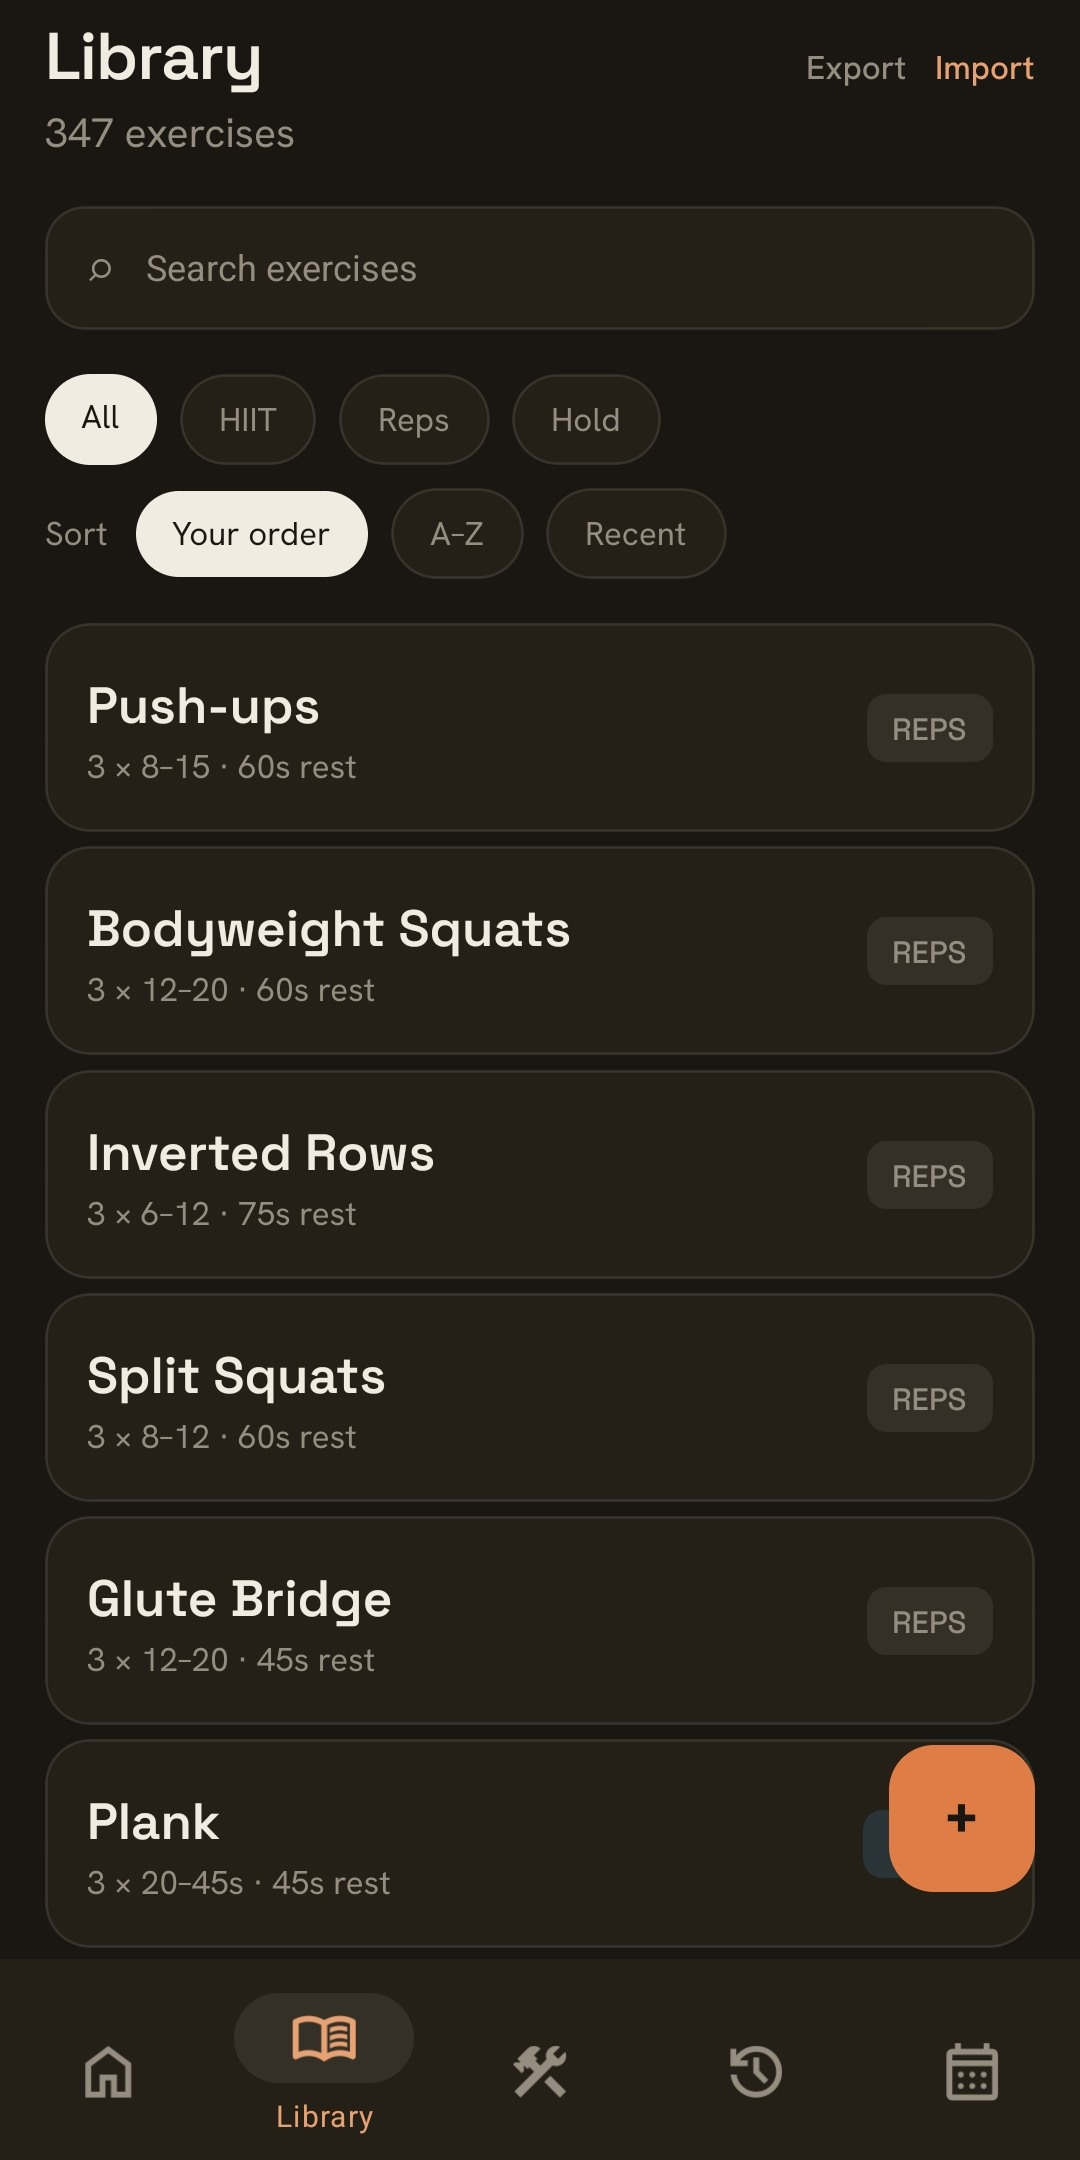
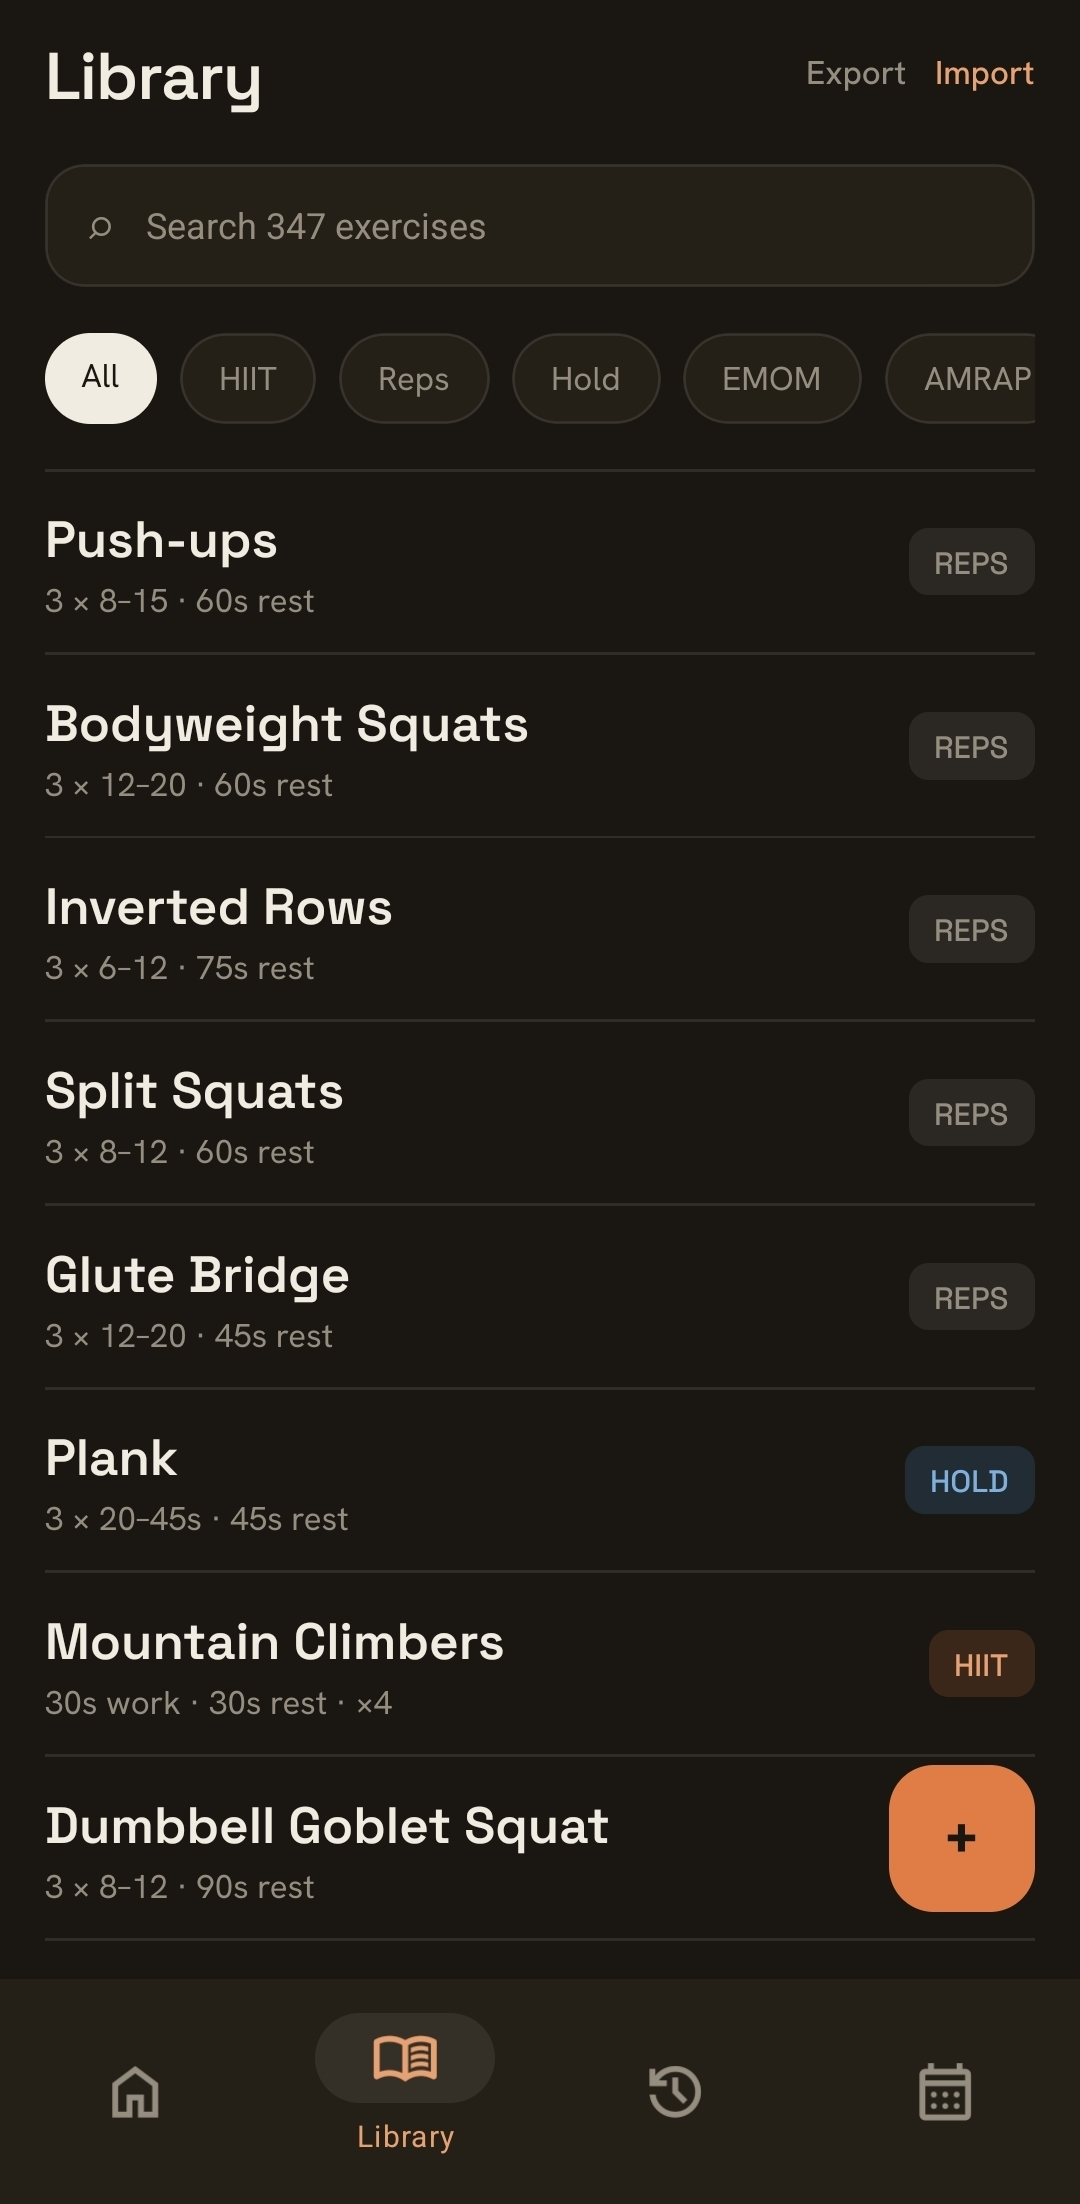
Recapture the screenshots against the app that actually exists
The site and the Play listing were both showing a build from before the
layout work: a Today tab that no longer exists, block chips on the next-up
card, streak tiles on the home screen and card-shaped list rows. None of
those survive. `today.jpg` was the worst of it — the tab was merged away,
and the page embedded it twice.

Eleven fresh device captures, dark theme, replacing the 2026-08-04 set.

Two structural consequences, neither of them a file swap:

- **`today` and `workouts` collapse into one image.** The merged tab carries
  the next-up card *and* the list, so one capture serves both. That freed a
  slot in `SHOTS`, which Play caps at eight; `stats` takes it, since "streaks,
  weekly totals and per-exercise volume are calculated on your device" had no
  image backing it at all.
- **The captures are 1080x2204, not 2160.** That is 2.041:1, over Play's 2:1
  ceiling, so `build-assets.js`'s extract does real work again instead of
  being the no-op it was for the 2160-tall set. `store/README.md` said it was
  a no-op; that claim is now wrong and is corrected rather than left to
  mislead. `.phone`'s `aspect-ratio` was still 1080/2242 — older than every
  image in the folder — so `object-fit: cover` had been quietly cropping ~2%
  off both sides of every screenshot on the site. Now exact.

The library section takes `library.jpg` rather than the workout list, which
is what a section headed "The library, as YAML" should have been showing.
[…]

diff --git a/site/index.html b/site/index.html
@@ -167,10 +167,10 @@
                 <div class="phone" style="max-width: 230px">
                   <div class="screen">
                     <img
-                      src="assets/img/today.jpg"
-                      alt="Kettle home screen: a 2-day streak and 6 sessions this week, with 09 - Push queued as week 6 Wednesday — its blocks listed as chips, an estimated 32 minutes, and Start session below."
+                      src="assets/img/workouts.jpg"
+                      alt="Kettle home screen: Foundations · Push queued as next up for week 2, day 1, with a block count, a mixed-type summary, an estimated 13 minutes, a coaching note and Start session — above a searchable list of 26 workouts."
                       width="1080"
-                      height="2160"
+                      height="2204"
                       loading="lazy" />
                   </div>
                 </div>
@@ -212,9 +212,9 @@
                   <div class="screen">
                     <img
                       src="assets/img/session-hiit.jpg"
-                      alt="Session runner mid-HIIT: Burpees, round 1 of 4, a large 0:38 countdown of 0:40 total, with Pause and Skip controls."
+                      alt="Session runner mid-HIIT: Burpees, round 1 of 4, a large 0:38 countdown of 0:40 total, the next round previewed below, and Pause and Skip controls."
                       width="1080"
-                      height="2160"
+                      height="2204"
                       loading="lazy" />
                   </div>
                 </div>
@@ -222,9 +222,9 @@
                   <div class="screen">
                     <img
                       src="assets/img/session-reps.jpg"
-                      alt="Session runner on a reps set, showing what was lifted last time on that same set number with a PR badge beside it, above a large rep counter, load and RPE controls, and Log set."
+                      alt="Session runner on a reps set: Push-ups, set 1 of 3, target 8 to 15, with what was done last time on that same set number, a large rep counter, load and RPE controls, a line drawing of the next set, and Log set then Rest."
                       width="1080"
-                      height="2160"
+                      height="2204"
                       loading="lazy" />
                   </div>
                 </div>
@@ -232,9 +232,9 @@
                   <div class="screen">
                     <img
                       src="assets/img/session-hold.jpg"
-                      alt="Session runner on a timed hold, counting up against its target with a progress bar and the next block previewed below."
+                      alt="Session runner on a timed hold: Plank, set 1 of 3, counting up against a 20 to 45 second target with a progress bar marking the range, the next set previewed below, and Done set."
                       width="1080"
-                      height="2160"
+                      height="2204"
                       loading="lazy" />
                   </div>
                 </div>
@@ -258,10 +258,10 @@
                 <div class="phone">
                   <div class="screen">
                     <img
-                      src="assets/img/workouts.jpg"
-                      alt="Workout list, 27 of them: Foundations · Push, Legs and Pull, two Dumbbell Full Body days and Mixed Conditioning, each with a block count, a mixed-type summary and an estimated duration."
+                      src="assets/img/library.jpg"
+                      alt="Library screen with Export and Import in the header: a search field over 347 exercises, filter chips for each block type, and rows for Push-ups, Bodyweight Squats, Inverted Rows, Split Squats, Glute Bridge, Plank, Mountain Climbers and Dumbbell Goblet Squat, each tagged with its type and summarising its sets and rest."
                       width="1080"
-                      height="2160"
+                      height="2204"
                       loading="lazy" />
                   </div>
                 </div>
@@ -269,9 +269,9 @@
                   <div class="screen">
                     <img
                       src="assets/img/import.jpg"
-                      alt="Import library sheet: choose a YAML file or paste YAML instead, a button to copy the format for an assistant, and a Merge and import action."
+                      alt="Import library sheet: choose an exercises.yaml file to merge, or paste YAML instead from an assistant or any text editor, plus a button to copy the format for an assistant and a Merge and import action."
                       width="1080"
-                      height="2160"
+                      height="2204"
                       loading="lazy" />
                   </div>
                 </div>
@@ -293,19 +293,19 @@
                   <div class="screen">
                     <img
                       src="assets/img/programs.jpg"
-                      alt="Programs list with two multi-week programs: Foundations · 4 Weeks · No Equipment and Dumbbell Strength · 4 Weeks, each noting weeks 1–4 and per-week overrides."
+                      alt="Programs list showing Foundations · 4 Weeks · No Equipment, which runs weeks 1 to 4 and notes how many of those weeks carry notes or per-week overrides."
                       width="1080"
-                      height="2160"
+                      height="2204"
                       loading="lazy" />
                   </div>
                 </div>
                 <div class="phone">
                   <div class="screen">
                     <img
-                      src="assets/img/today.jpg"
-                      alt="Today screen with the program's next day queued automatically: 09 - Push, labelled week 6 Wednesday, with its blocks as chips and a deload note."
+                      src="assets/img/workouts.jpg"
+                      alt="The home screen with the program's next day queued automatically: Foundations · Push, labelled next up for week 2, day 1, carrying that week's note about aiming for one more rep than week 1."
                       width="1080"
-                      height="2160"
+                      height="2204"
                       loading="lazy" />
                   </div>
                 </div>
@@ -318,7 +318,7 @@
                 <p>
                   The set row shows what you did last time — "60 kg × 8", on the set you're on — and one tap makes it the new
                   target, written back to your library so next week starts there. Beat your best and the row says so; finish
-                  and the summary names the record and an estimated 1RM.
+                  and the summary names the record, with an estimated 1RM for loaded sets.
                 </p>
                 <p>
                   All of it is read back on the device from your own log: every finished set goes there with the date and
@@ -335,9 +335,9 @@
                   <div class="screen">
                     <img
                       src="assets/img/session-complete.jpg"
-                      alt="The end of a session: a checkmark, the workout name, and a card marking a personal record for one exercise with an estimated one-rep max under it."
+                      alt="The end of a session: a checkmark, the workout name, and two cards each marking a personal record — most reps ever on Push-ups, and longest hold ever on Plank."
                       width="1080"
-                      height="2160"
+                      height="2204"
                       loading="lazy" />
                   </div>
                 </div>
@@ -345,9 +345,19 @@
                   <div class="screen">
                     <img
                       src="assets/img/history.jpg"
-                      alt="History screen: 6 sessions, 73 sets logged all time, a workout search field, and dated entries including an ad-hoc session and several named workouts."
+                      alt="History screen: 31 sessions and 168 sets logged all time, links to Stats and Export all, a workout search field, and dated entries for Foundations · Legs and Push, a stretch and mobility session and two full-body days."
                       width="1080"
-                      height="2160"
+                      height="2204"
+                      loading="lazy" />
+                  </div>
+                </div>
+                <div class="phone">
+                  <div class="screen">
+                    <img
+                      src="assets/img/stats.jpg"
+                      alt="Your numbers: tiles for sessions, time and day streak this week and all time, a bar chart of sessions per week over the last 8 weeks, and a getting-stronger list showing how each exercise has moved."
+                      width="1080"
+                      height="2204"
                       loading="lazy" />
                   </div>
                 </div>

diff --git a/store/build-assets.js b/store/build-assets.js
@@ -54,6 +54,9 @@ const OUT = path.join(__dirname, 'out');
  */
 const SHOT_W = 1080;
 const SHOT_H = 2160;
+// Captures come off the device at 1080x2204, which is 2.041:1 and over Play's ceiling — so the
+// extract below is load-bearing, not the no-op it was for the 2160-tall 2026-08-04 set. It trims
+// from the bottom, where the tab bar's own padding is the only thing in the last 44px.
 
 /**
  * Order matters: this is the order they appear in the listing, and Play caps a phone listing at
@@ -61,12 +64,15 @@ const SHOT_H = 2160;
  * `site/assets/img` also holds session-hold, library and settings, which the landing page can afford
  * to show and the listing cannot.
  *
- * The runner leads, per the repositioned pitch (#58): the set row carrying "last time" and the PR
- * marker is the single image that evidences the claim the listing now opens with, and the completion
- * screen is the only one showing a named record with an estimated 1RM. Drop either of those before
- * dropping a list screen and the copy is left unbacked.
+ * The runner leads, per the repositioned pitch (#58): the set row carrying "last time" is the single
+ * image that evidences the claim the listing now opens with, and the completion screen is the only
+ * one naming a record. Drop either of those before dropping a list screen and the copy is left
+ * unbacked.
+ *
+ * `today` and `workouts` used to be two entries; the tabs merged, so one capture now serves both and
+ * `stats` takes the slot that freed — it is what backs "calculated on your device from that log".
  */
-const SHOTS = ['session-reps', 'session-hiit', 'session-complete', 'today', 'workouts', 'programs', 'history', 'import'];
+const SHOTS = ['session-reps', 'session-hiit', 'session-complete', 'workouts', 'programs', 'history', 'stats', 'import'];
 
 if (SHOTS.length > 8) throw new Error(`Play allows 8 phone screenshots; SHOTS lists ${SHOTS.length}`);
 

diff --git a/src/app/__tests__/programs.test.tsx b/src/app/__tests__/programs.test.tsx
@@ -87,3 +87,27 @@ it('is translated', async () => {
 
   expect(screen.getByText('Nada encontrado')).toBeTruthy();
 });
+
+// `program.weeks` holds one entry per week *and day*, so counting entries over-reported: a four-week
+// program with notes or overrides on two days of every week claimed "8 weeks with notes or
+// overrides" next to a "Weeks 1–4" range. Reintroduce the bug by counting entries instead of
+// distinct week numbers and this fails on the 8.
+it('counts distinct weeks with notes or overrides, not the day entries inside them', async () => {
+  const everyWeekTwice = aProgram({
+    id: 'block',
+    name: 'Four week block',
+    weeks: [1, 2, 3, 4].flatMap((week) => [
+      { week, day: 'Day 1', workoutId: 'push-day', notes: 'Push a little harder.' },
+      { week, day: 'Day 3', workoutId: 'push-day', notes: 'And again.' },
+    ]),
+  });
+  useLibraryStore.setState({
+    library: aLibrary({ workouts: [aWorkout()], programs: [everyWeekTwice] }),
+    status: 'ready',
+  });
+
+  await renderScreen(<ProgramsScreen />);
+
+  expect(screen.getByText('Weeks 1–4')).toBeTruthy();
+  expect(screen.getByText('4 weeks with notes or overrides')).toBeTruthy();
+});

diff --git a/src/app/(tabs)/programs.tsx b/src/app/(tabs)/programs.tsx
@@ -28,9 +28,14 @@ function weekRangeLabel(program: Program, t: TFunction): string {
 }
 
 function detailLabel(program: Program, t: TFunction): string | null {
-  const count = program.weeks.filter(
-    (week) => week.notes || (!week.restDay && week.overrides && week.overrides.length > 0),
-  ).length;
+  // De-duplicated by week number, because `program.weeks` holds one entry per week *and day* — the
+  // same shape `programWeekNumbers` collapses for the range above. Counting entries made a four-week
+  // program read "Weeks 1–4 / 8 weeks with notes or overrides", which can't be true of either label.
+  const count = new Set(
+    program.weeks
+      .filter((week) => week.notes || (!week.restDay && week.overrides && week.overrides.length > 0))
+      .map((week) => week.week),
+  ).size;
   if (count === 0) return null;
   return t('programs.weeksWithNotes', { count });
 }

diff --git a/site/styles.css b/site/styles.css
@@ -628,7 +628,7 @@ code.inl {
 .phone {
   width: 100%;
   max-width: 260px;
-  aspect-ratio: 1080 / 2242;
+  aspect-ratio: 1080 / 2204;
   background: var(--ink);
   border: 1px solid var(--border);
   border-radius: 30px;

diff --git a/store/README.md b/store/README.md
@@ -50,11 +50,12 @@ Each of these cost a rejected upload or a wrong guess once, so they are asserted
   is 2160, so that is the height ceiling; `build-assets.js` enforces both, the second with an explicit
   throw so a ninth entry in `SHOTS` fails loudly rather than at upload.
 
-  The 2026-08-04 captures are cropped to 2160 at capture time — status bar and gesture pill both
-  removed, window centred on each screen's own content — so the extract in the script is a no-op guard
-  for them. Earlier captures were 1080x2242 and got trimmed from the bottom, the gesture-pill band
-  being the only strip with nothing worth keeping. Letterboxing to fit would put visible bars down
-  both sides, which is why neither approach does it.
+  The 2026-08-19 captures come off the device at 1080x2204, which is 2.041:1 — over the ceiling — so
+  the extract in the script does real work again and trims 44px from the bottom. The 2026-08-04 set
+  was cropped to 2160 at capture time and made that extract a no-op; don't read the code as though
+  that is still true. Earlier captures were 1080x2242 and got trimmed the same way, the gesture-pill
+  band being the only strip with nothing worth keeping. Letterboxing to fit would put visible bars
+  down both sides, which is why none of these approaches does it.
 - **App icon: full square, no transparency, no baked corner radius or shadow.** Play applies its own
   30% radius and shadow, so pre-rounding doubles up. The script asserts zero non-opaque pixels.
 - **Feature graphic: no alpha channel.** Flattened explicitly.
@@ -272,3 +273,11 @@ do not resolve on a locally installed APK.
 - The captures are of a **real** library and log — 347 exercises, real workout names, actual history.
   That is the populated state the listing wanted, and it is public once uploaded. Re-capturing against
   seeded data is the alternative if that ever becomes unwanted.
+- The 2026-08-19 log was built by running sessions back to back, so every session reads `0 min` in
+  History and Stats totals barely a minute. Nothing is wrong; it just doesn't look like a year of
+  training. Worth a slower log before the next upload — `history` and `stats` are 2 of the 8 slots.
+- `programs.jpg` was captured **before** the week-count fix and still shows the pre-fix
+  "8 weeks with notes or overrides" for a four-week program. Re-shoot it before the next upload.
+- The completion capture names two records but no estimated 1RM, both PRs being unloaded. The copy
+  says "for loaded sets", so it is accurate — but a `heaviest set` PR would demonstrate the whole
+  claim, and the 2026-08-04 capture did.

diff --git a/docs/open-work.md b/docs/open-work.md
@@ -185,19 +185,6 @@ wanting states and assignees, it wants GitHub issues instead.
   "parallel switches stay" entry was banking. `schema.ts`, `yaml-mapping.ts`, `TYPE_OPTIONS` and both
   locale bundles are the parts it can't catch for you.
 
-- **The landing site's screenshots show an app that no longer exists.** `site/index.html` embeds eight
-  captures from `assets/img/`, and the layout work invalidated most of them — including
-  `today.jpg`, which is a tab that was merged away. What the current images still claim, in their own
-  alt text: a Today screen, block chips on the next-up card, streak and this-week tiles on the home
-  screen, and card-shaped list rows. None of those survive.
-
-  This needs device captures, which is why it is here rather than done: the alt text is accurate *to
-  the images*, so rewriting the prose without replacing the pictures would make it worse, not better.
-  Recapture on a real device in dark theme to match the existing set, then update the alt text with
-  them — it is the only description a screen-reader user or a search engine gets, and
-  `store/README.md` covers the same requirement for the Play listing's screenshots, which are a
-  separate set with the same problem.
-
 - **The Stats screen made `listSessions()`'s cost real, and nothing has been done about it.** The
   scaling risk is in the decision log with the remedies; what changed is that it now has a consumer.
   `analytics.tsx` walks the whole log three times per render — `historyStats`, `sessionsPerWeek` and

diff --git a/README.md b/README.md
@@ -11,8 +11,8 @@ transmitted.
 [example libraries](https://celsaad.github.io/kettle/examples.html)
 
 <p>
-  <img src="site/assets/img/today.jpg" width="240"
-       alt="Kettle home screen showing today's workout queued as Week 1 Day 1 with a Start session button." />
+  <img src="site/assets/img/workouts.jpg" width="240"
+       alt="Kettle home screen showing the next workout queued as Week 2 Day 1 with a Start session button, above the workout list." />
   <img src="site/assets/img/session-hiit.jpg" width="240"
        alt="Session runner mid-HIIT: round 1 of 4, a large countdown, with Pause and Skip controls." />
   <img src="site/assets/img/import.jpg" width="240"
